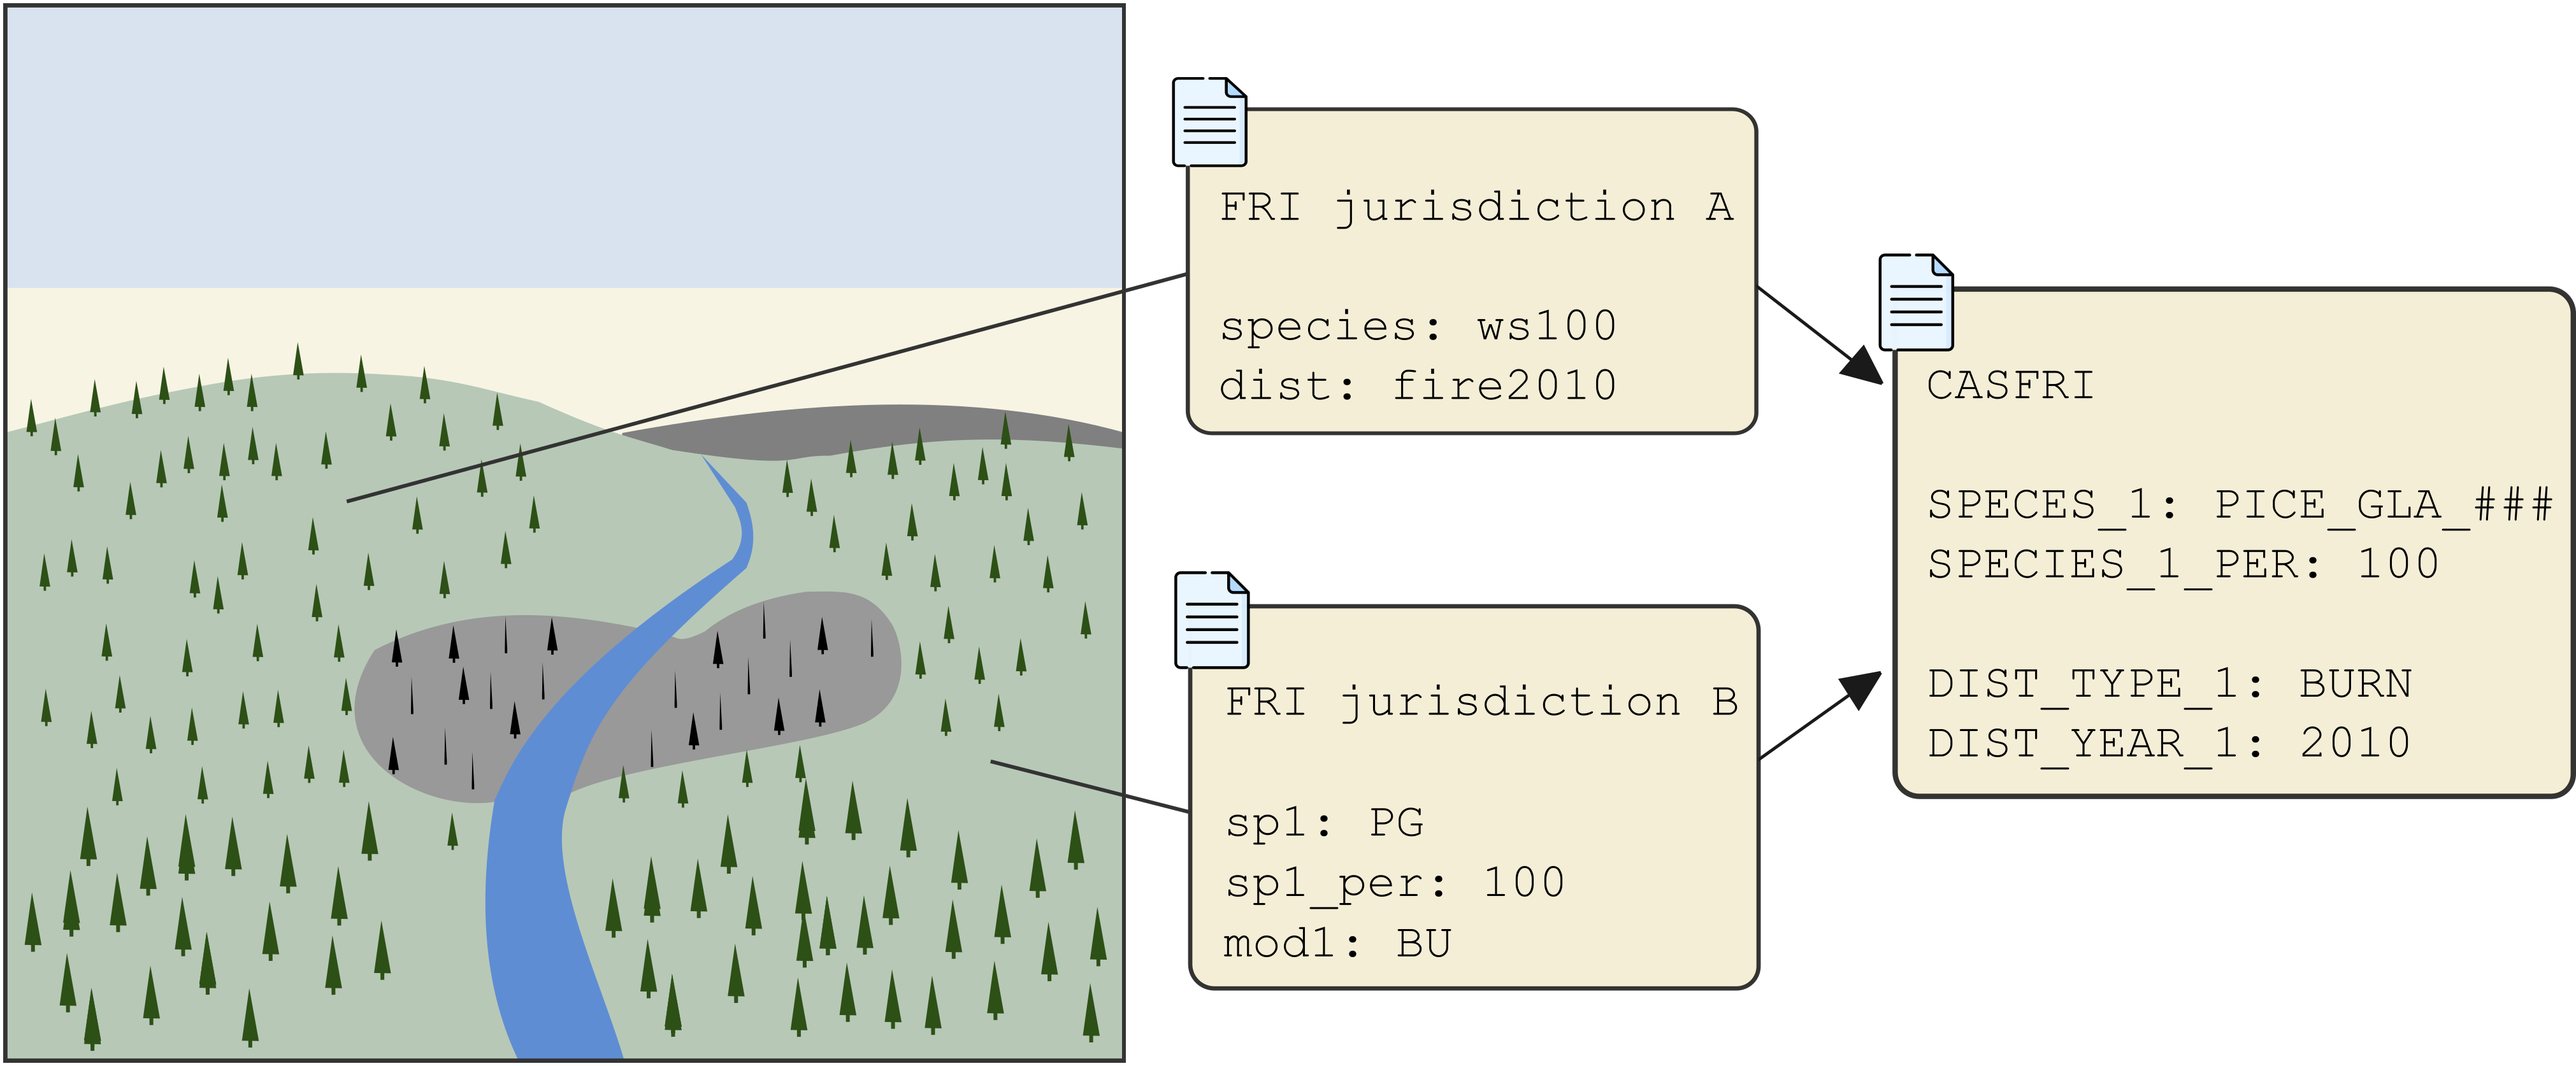
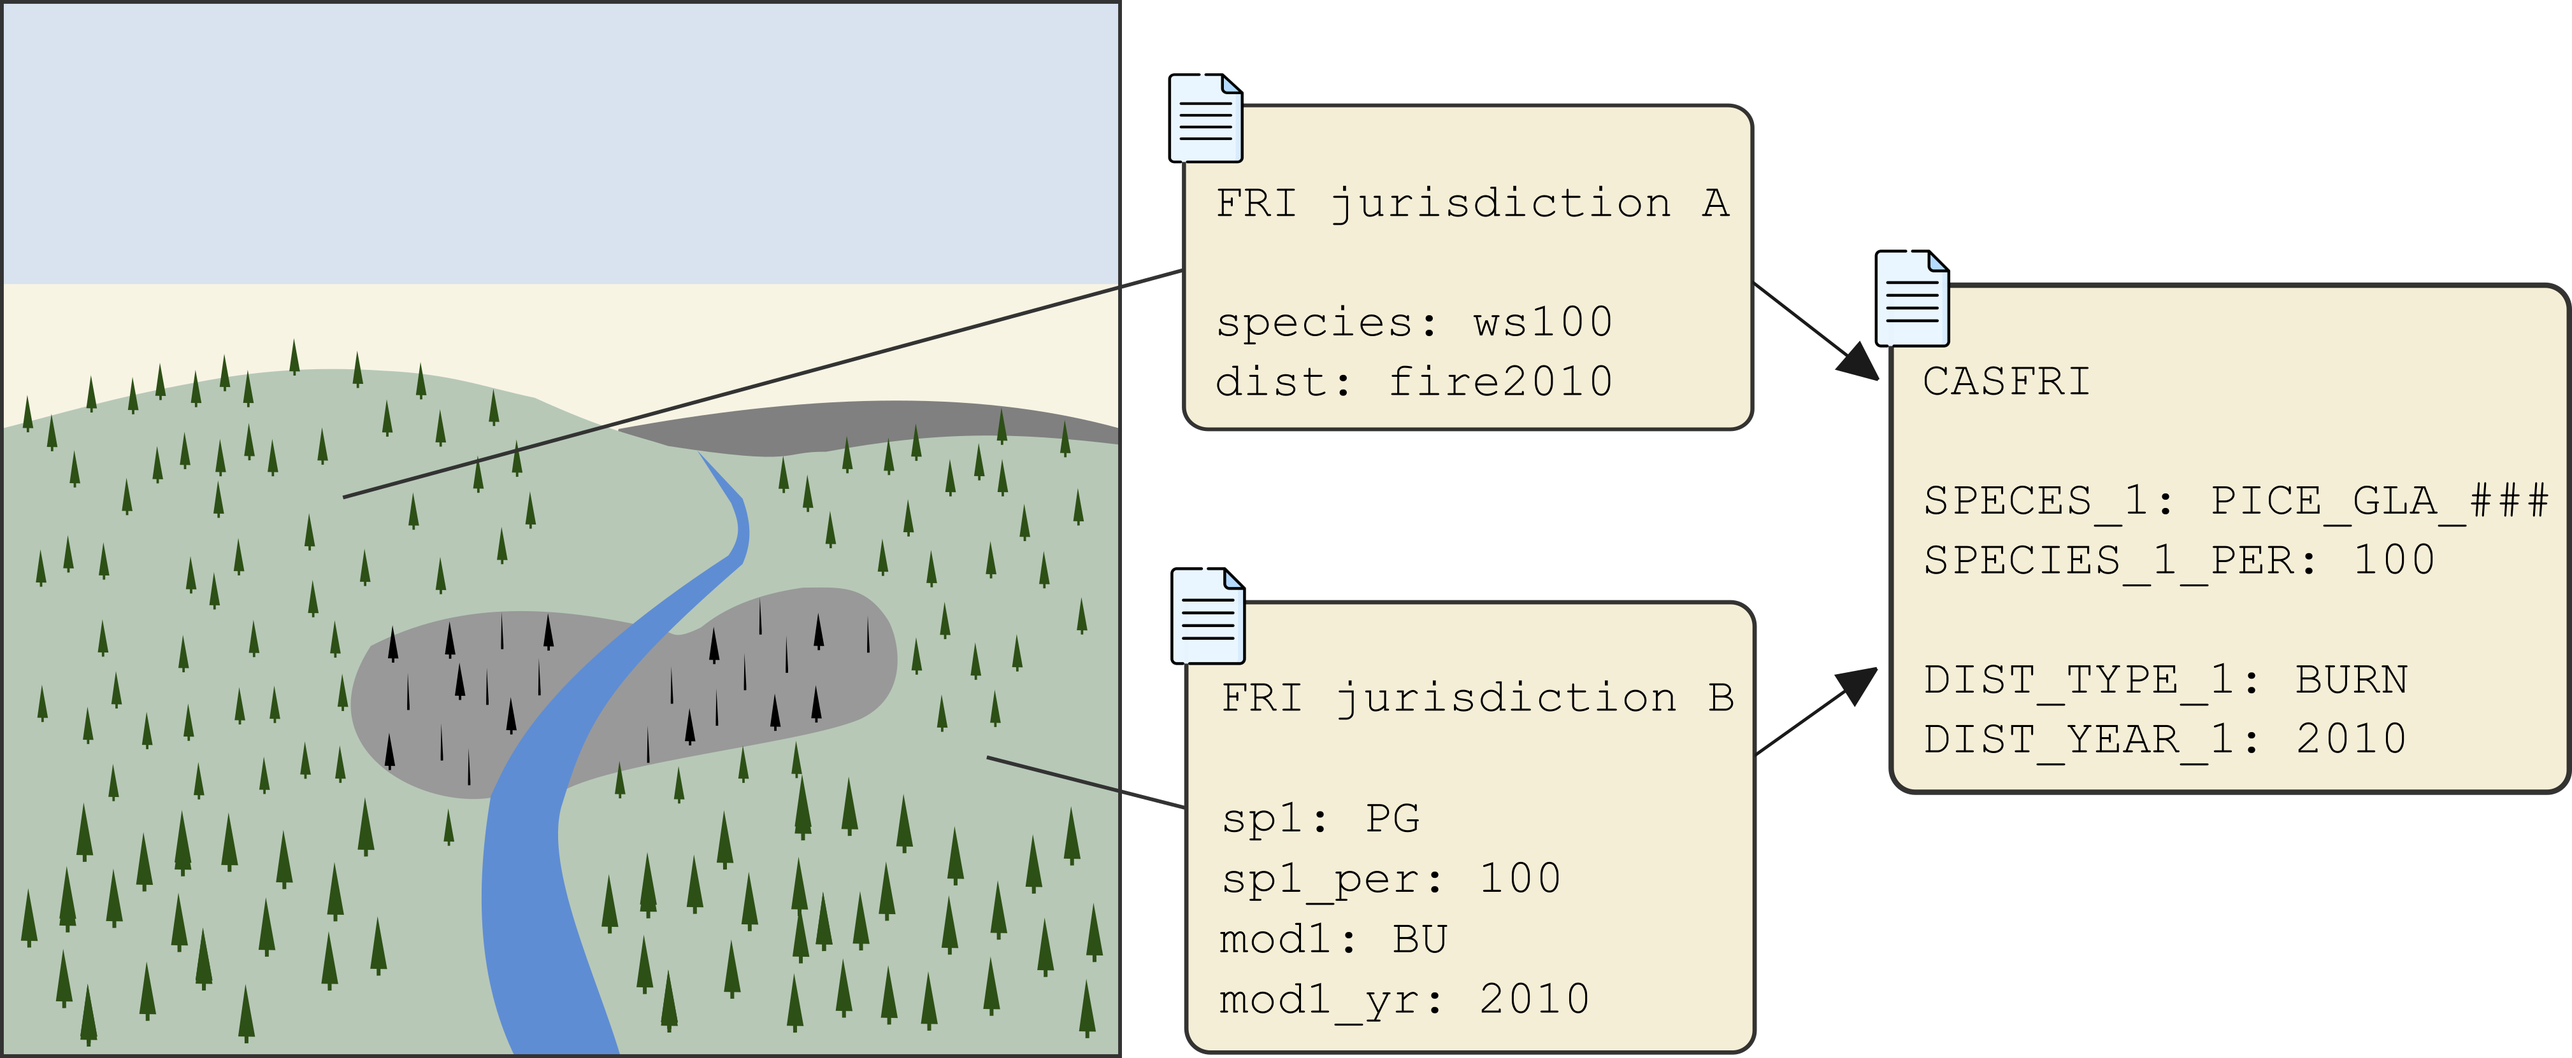
#722 - website content updates

diff --git a/docs/about.html b/docs/about.html
@@ -297,13 +297,16 @@ $(".main-container").removeClass("main-container").removeClass("container-fluid"
 
 <div id="introduction" class="section level1">
 <h1>Introduction</h1>
-<p>Digital Forest Resource Inventories (FRIs) are compiled by provincial and territorial governments and are key inputs into forest management planning. FRI datasets consist of stand maps interpreted from aerial photography at scales ranging from 1:10,000 to 1:40,000. The stand maps estimate the location, extent, condition, composition, and structure of the forest resource. Many FRIs also include information on disturbances such as fire, windthrow and insects, non-forest components such as understory vegetation, non-vegetated land and anthropogenic land use, and in some cases wetland categorizations. Each jurisdiction has developed its own procedures and standards for forest inventories making it difficult to assemble datasets across multiple jurisdictions.</p>
-<p>The goal of the CASFRI project is to pass each FRI dataset from the various jurisdictions across Canada through a <a target="_blank" rel="noopener noreferrer" href="https://github.com/edwardsmarc/PostgreSQL-Table-Translation-Framework">translation engine</a>. The translation engine converts each dataset into the CASFRI specifications and merges the datasets together to create a continuous map of FRI polygons. For example, the image below represents a white spruce forest and a fire crossing between two jurisdictions on either side of a river. Each jurisdiction records the species content of the forest and the year and type of disturbance using different formats. The job of CASFRI is to translate each of these into a common format.</p>
+<p>Digital Forest Resource Inventories (FRI) are the primary forest management planning tool used in Canada. They have also proved useful in ecological modelling applications related to songbirds, waterfowl, woodland caribou, fire ecology, stand dynamics and conservation planning. FRI stand maps estimate the location, extent, condition, composition, and structure of the forest resource. Many FRIs also include information on disturbances, non-forest components, and in some cases wetland categorizations.</p>
+<p>FRI data exist for most of Canada’s managed forest lands, but are scattered among many owners, private and crown, adhere to many different standards, are of widely varying age, and are subject to periodic updates and re-inventories. These features challenge their wide-spread use in applied research, especially over large spatial extents spanning jurisdictions and inventory standards.</p>
+<p>The goal of the CASFRI project is to pass each FRI dataset from the various jurisdictions across Canada through a <a target="_blank" rel="noopener noreferrer" href="https://github.com/edwardsmarc/PostgreSQL-Table-Translation-Framework">translation engine</a>. The translation engine converts each dataset into the CASFRI specifications and merges the datasets together to create a continuous map of FRI polygons. CASFRI uses a standardized specification focused on attributes that are: 1) most commonly and consistently recorded among existing inventories and 2) most relevant to ecological modelling and forest management planning.</p>
+<p>For example, the image below represents a white spruce forest and a fire crossing between two jurisdictions on either side of a river. Each jurisdiction records the species content of the forest and the year and type of disturbance using different formats. The job of CASFRI is to translate each of these into a common format.</p>
 <center>
 <img src="images/specs_example.png" title="fig:" alt="Specs figure" style="width:75.0%" />
 </center>
 <p><br></p>
-<p>All CASFRI data are inherantly spatial, because all attributes are directly associated with a specific polygon. No sample plots or point data are processed by CASFRI. CASFRI therefore produces continuous maps of FRI polygons matching the extent of the input data. CASFRI does not model or interpolate data, the CASFRI philosophy is to translate the source data into the CASFRI standard as directly and transparently as possible. Users interested in modelling, projecting or interpolating data can use the CASFRI database as a starting point for their analysis, or they can modify the CASFRI workflow to create their own standardized forest inventory conforming to their own specifications.</p>
+<p>There is no other existing accessible, comprehensive repository for Canada’s FRI data. CASFRI secures historic FRIs for the use of present and future research needs. We expect the value to increase with the passage of time, as new inventories are added to a historical record that now spans more than 30 years.</p>
+<p>All CASFRI data are inherantly spatial, because all attributes are directly associated with a specific polygon. No sample plots or point data are processed by CASFRI. CASFRI therefore produces continuous maps of FRI polygons matching the extent of the input data. CASFRI does not model or interpolate data, the CASFRI philosophy is to translate the source data into the CASFRI specification as directly and transparently as possible. Users interested in modelling, projecting or interpolating data can use the CASFRI database as a starting point for their analysis, or they can modify the CASFRI workflow to create their own standardized forest inventory conforming to their own specifications.</p>
 <p>CASFRI ensures reliable and robust data by applying validation procedures at multiple stages in the workflow. Input data are validated before any translation is attempted. The translation rules themselves are then validated prior to data translation. The final CASFRI database is validated to ensure all data conform to the CASFRI specifications. Any invalid data is reported using the CASFRI <a target="_blank" rel="noopener noreferrer" href="https://github.com/edwardsmarc/CASFRI/tree/master/documentation/specifications#Error_codes">error code syntax</a> which informs users on the type of invalidation that occurred.</p>
 <p><br></p>
 </div>
@@ -327,6 +330,9 @@ $(".main-container").removeClass("main-container").removeClass("container-fluid"
 </div>
 <div id="how-to-cite-the-project" class="section level1">
 <h1>How to cite the project</h1>
+<p>Please use the following citations when referencing the CASFRI project and the PostgreSQL-Table-Translation-Framework:</p>
+<p>CASFRI Project Team (2021). Common Attribute Schema for Forest Resource Inventories. Université Laval, QC, Canada. URL <a href="https://casfri.github.io/CASFRI/" class="uri">https://casfri.github.io/CASFRI/</a>. DOI:</p>
+<p>CASFRI Project Team (2021). PostgreSQL Table Translation Framework. Université Laval, QC, Canada. URL <a href="https://github.com/CASFRI/PostgreSQL-Table-Translation-Framework" class="uri">https://github.com/CASFRI/PostgreSQL-Table-Translation-Framework</a>. DOI:</p>
 </div>
 
 </div> <!-- articleBandContent -->

diff --git a/docs/index.html b/docs/index.html
@@ -304,7 +304,7 @@ $("#pageContent").removeClass("standardPadding");
   <div class="band full green first rightText">
     <div class="bandContent vCenter">
       <div class="blurb">
-        <div class="tagline">CASFRI takes the forest resource inventory datasets from all jurisdictions in Canada, and combines them into a single standardized dataset.</div>
+        <div class="tagline">CASFRI is a standardised representation of the landcover attributes used in all contemporary Canadian forest resource inventory (FRI) datasets.</div>
       </div>
     </div>
     <img class="imageOne" src="images/forest.png"/>
